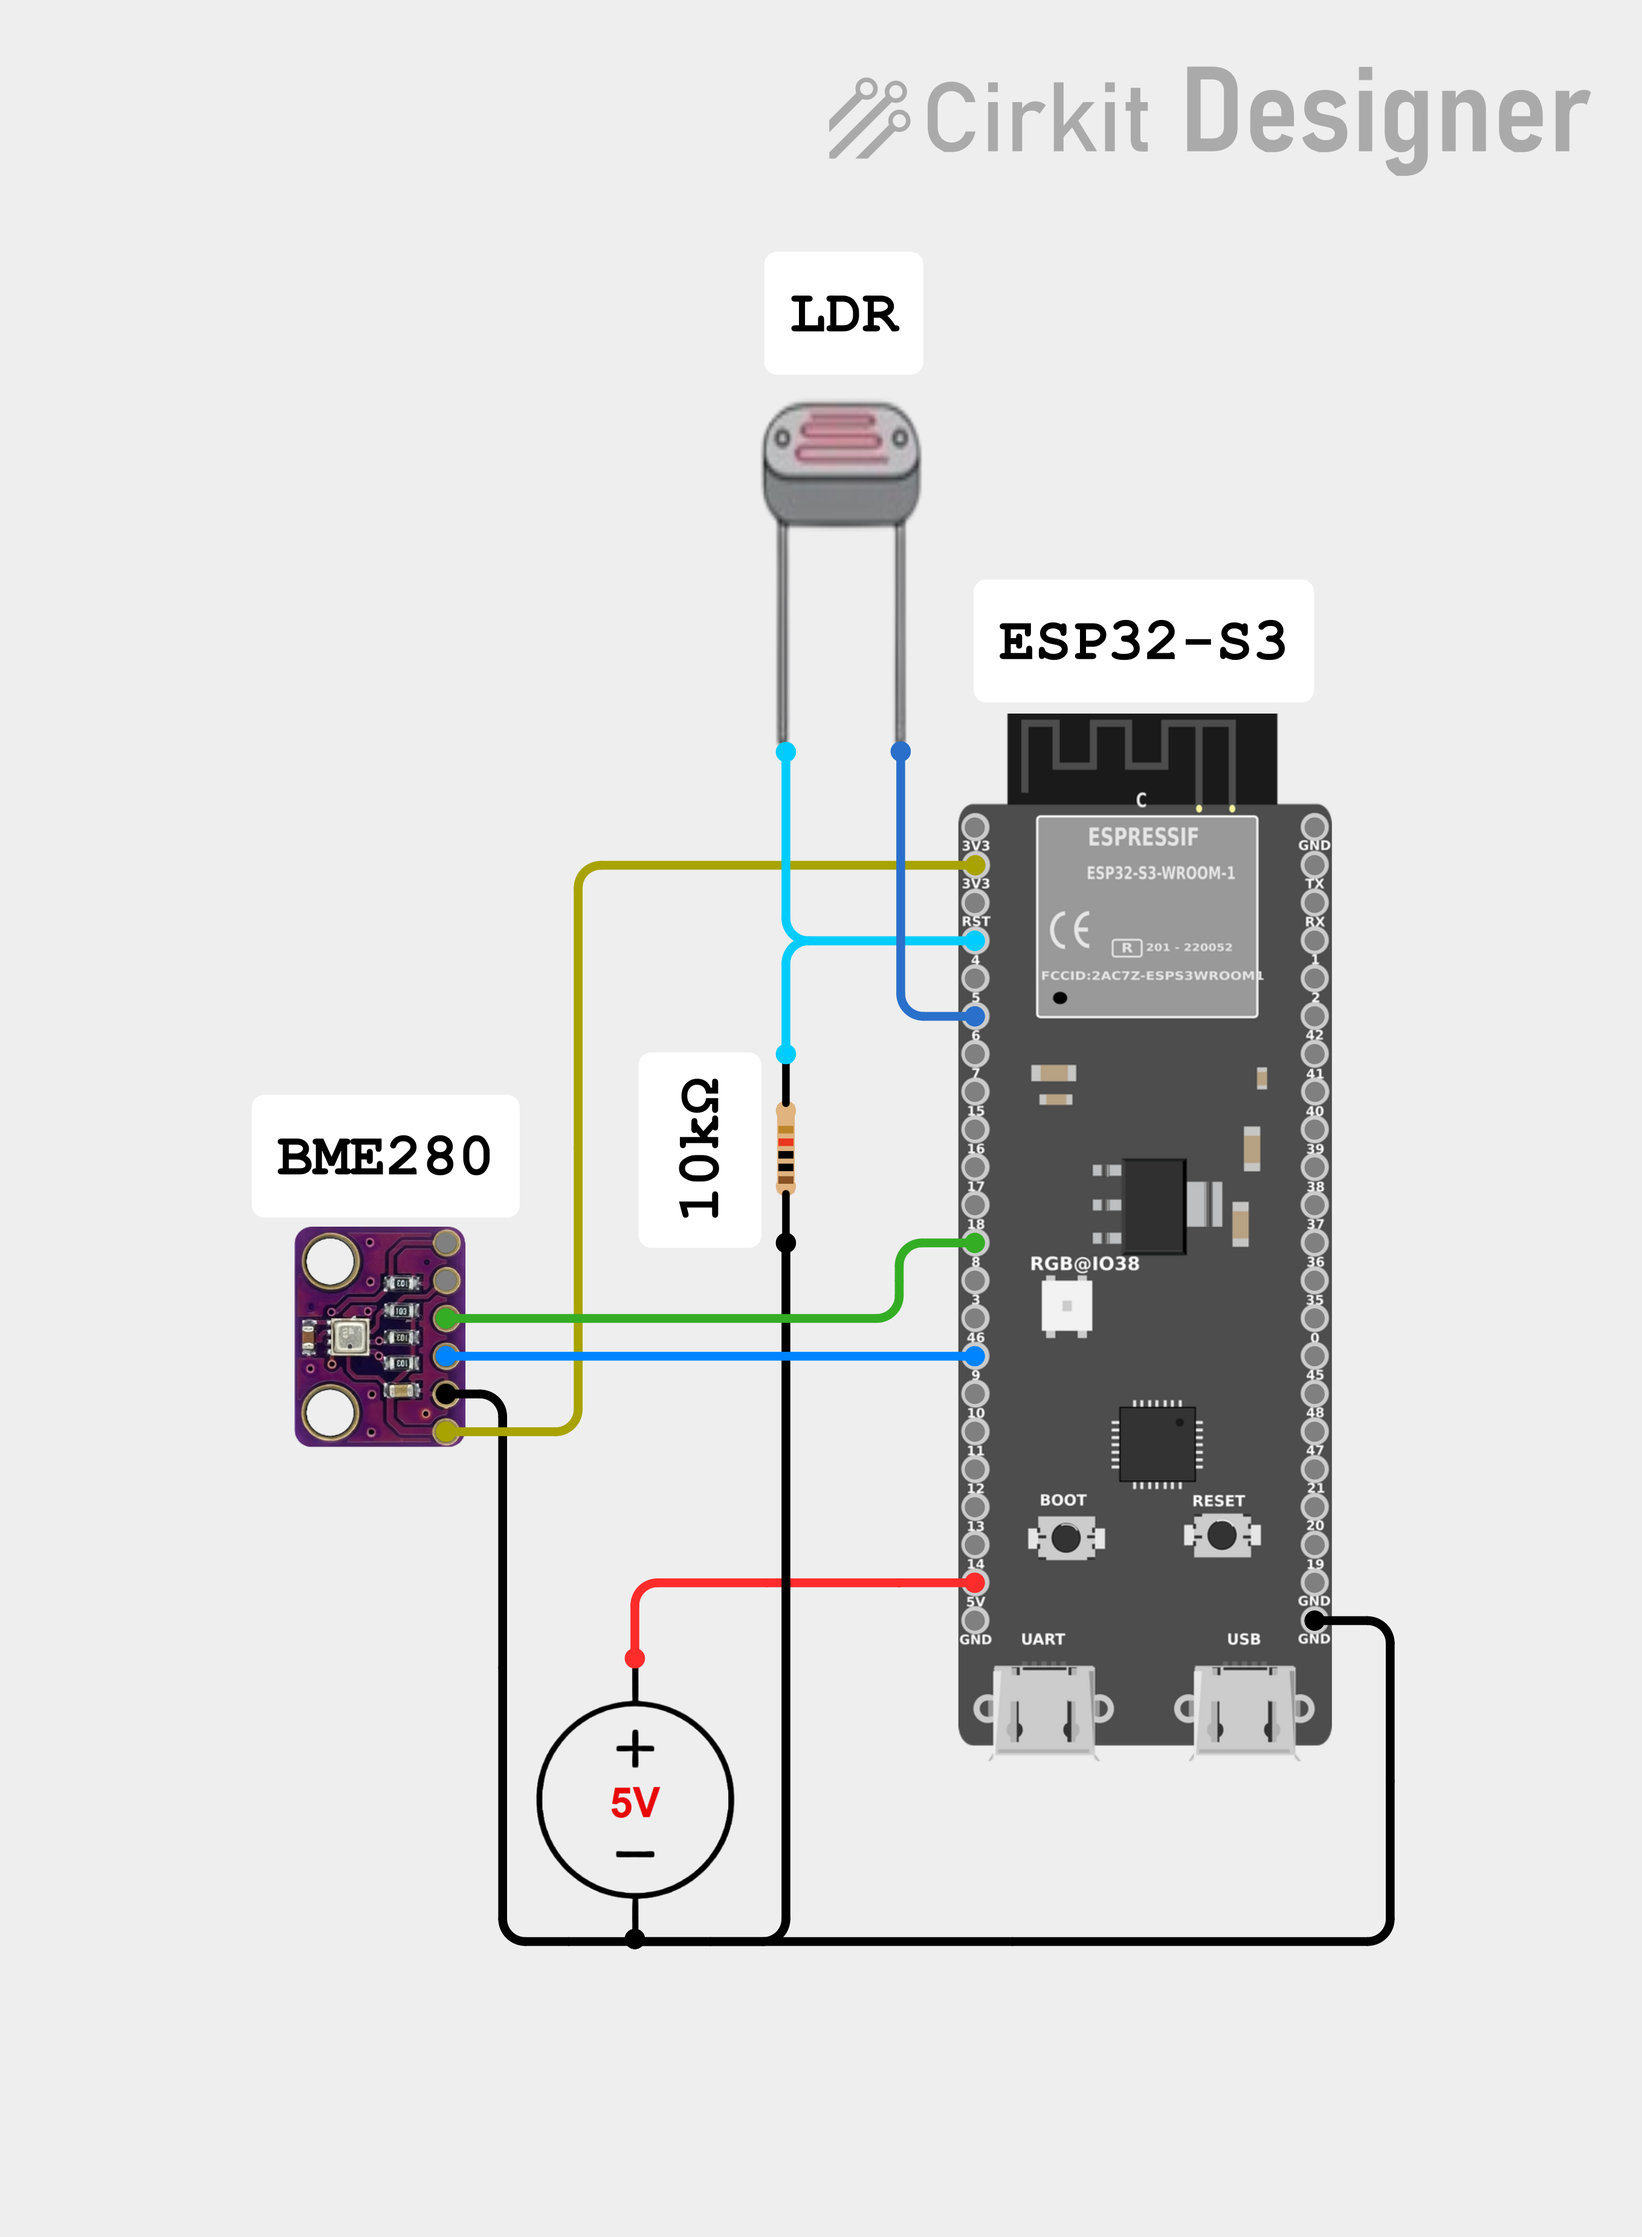
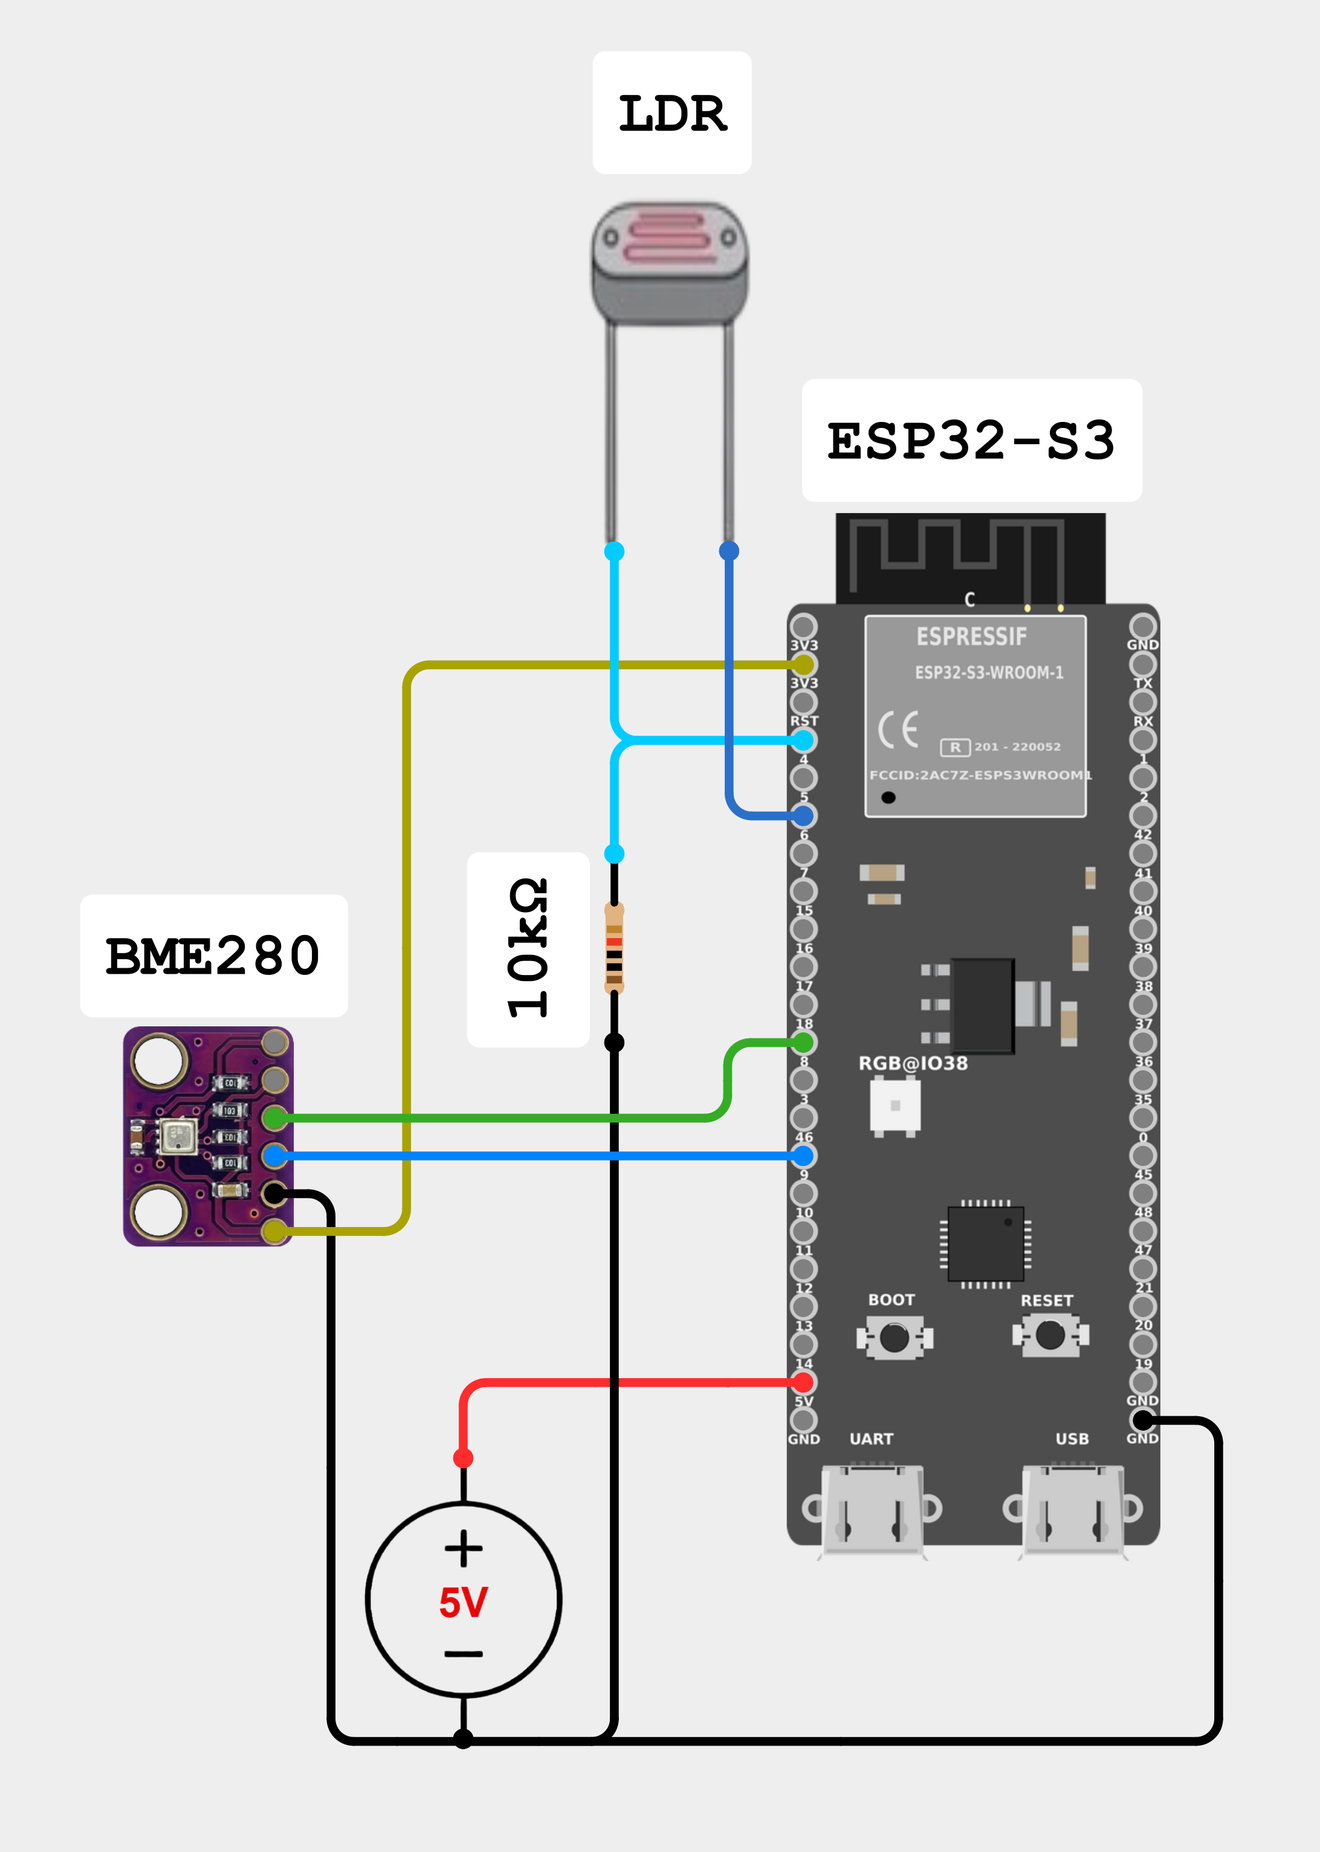
atualiza readme

Changed region(s): [[0.0623, 0.031, 0.9652, 0.9612], [0.6227, 0.217, 0.8407, 0.248]]

diff --git a/README.md b/README.md
@@ -242,7 +242,7 @@ O sistema é alimentado por uma fonte externa chaveada de +5V DC / 1A.
       ```
     *Nota: O broker precisa estar rodando para que o dashboard receba os dados. Fechar o terminal encerra o broker.*
 
-![Viewer](./dashboard.png)
+![Viewer](./dashboard_pt.png)
 
 ---
 
